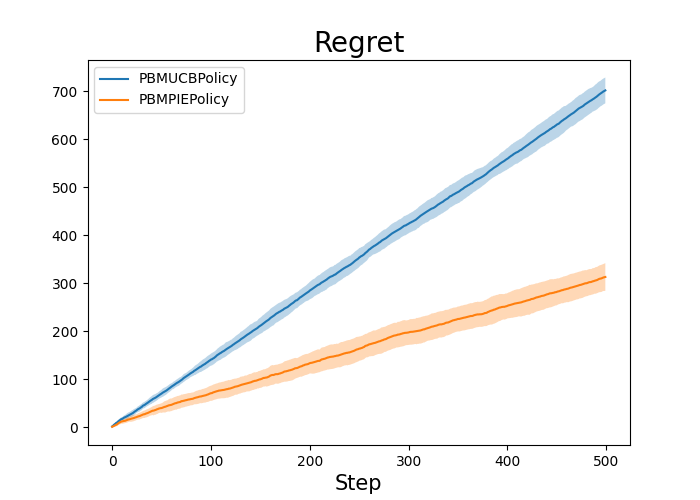
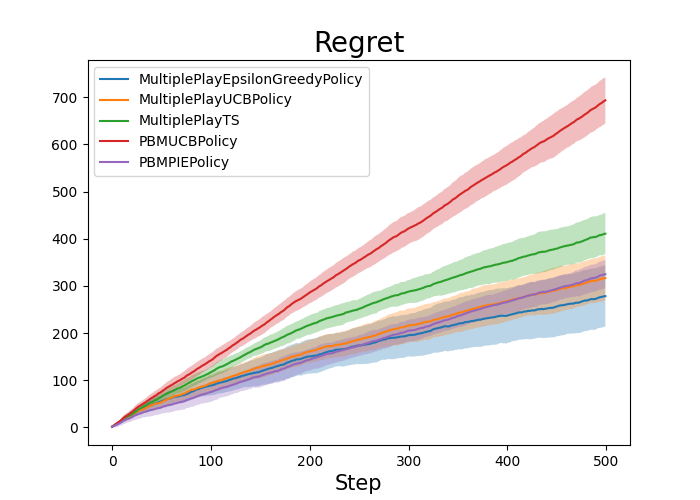
UCB TS epsilon-greedy実装

diff --git a/src/policy/multiple_play/contextfree.py b/src/policy/multiple_play/contextfree.py
@@ -19,6 +19,53 @@ class MultiplePlayRandomPolicy(AbstractMultiplePlayContextFreePolicy):
         return np.array(actions)
 
 
+class MultiplePlayEpsilonGreedyPolicy(AbstractMultiplePlayContextFreePolicy):
+    def __init__(self, n_actions: int, n_play: int, epsilon: float):
+        super().__init__(n_actions, n_play)
+        self.epsilon = epsilon
+
+    def select_action(self, n):
+        actions = np.argsort(-self.mu)[: self.n_play]
+        actions = np.tile(actions, (n, 1))
+        if np.random.rand() < self.epsilon:
+            actions = np.array(
+                [
+                    np.random.choice(self.n_actions, replace=False, size=self.n_play)
+                    for _ in range(n)
+                ]
+            )
+        return actions
+
+
+class MultiplePlayUCBPolicy(AbstractMultiplePlayContextFreePolicy):
+    def __init__(self, n_actions: int, n_play: int):
+        super().__init__(n_actions, n_play)
+
+    def select_action(self, n):
+        t = self.cnt.flatten().sum()  # これまで引いた回数
+        ucb_score = self.mu + np.sqrt(np.log(t) / (2 * self.cnt.sum(axis=1) + 1e-10))
+        actions = np.argsort(-ucb_score)[: self.n_play]  # スコアの高い腕を選択
+        actions = np.tile(actions, (n, 1))
+
+        return actions
+
+
+class MultiplePlayTS(AbstractMultiplePlayContextFreePolicy):
+    def __init__(self, n_actions: int, n_play: int):
+        super().__init__(n_actions, n_play)
+
+    def select_action(self, n):
+        cnt = self.cnt.sum(axis=1)  # 各腕のプレイ回数
+        success = self.reward.sum(axis=1)  # 各腕のクリック回数
+        fail = cnt - success  # 各腕のクリックされなかった回数
+        score = np.random.beta(
+            success + 1, fail + 1, size=(n, self.n_actions)
+        )  # Thompson Sampling
+        actions = np.argsort(-score)[:, : self.n_play]  # スコアの高い腕を選択
+
+        return actions
+
+
 class PBMUCBPolicy(AbstractMultiplePlayContextFreePolicy):
     def __init__(self, n_actions: int, n_play: int, examination: np.ndarray, delta: float):
         super().__init__(n_actions, n_play)

diff --git a/bin/run_pbm.py b/bin/run_pbm.py
@@ -9,6 +9,9 @@ from src.config import PBMConfig
 from src.evaluator import Evaluator
 from src.policy.multiple_play.contextfree import (
     MultiplePlayRandomPolicy,
+    MultiplePlayEpsilonGreedyPolicy,
+    MultiplePlayUCBPolicy,
+    MultiplePlayTS,
     PBMPIEPolicy,
     PBMUCBPolicy,
 )
@@ -22,6 +25,9 @@ def set_up(cfg: PBMConfig) -> Tuple[List[MUTIPLE_PLAY_POLICY_TYPE], PBMEnviromen
     set_seed(cfg.seed)
     policies: List[MUTIPLE_PLAY_POLICY_TYPE] = [
         # MultiplePlayRandomPolicy(cfg.n_actions, cfg.n_play),
+        MultiplePlayEpsilonGreedyPolicy(cfg.n_actions, cfg.n_play, epsilon=0.05),
+        MultiplePlayUCBPolicy(cfg.n_actions, cfg.n_play),
+        MultiplePlayTS(cfg.n_actions, cfg.n_play),
         PBMUCBPolicy(cfg.n_actions, cfg.n_play, cfg.examination, delta=0.01),
         PBMPIEPolicy(cfg.n_actions, cfg.n_play, cfg.examination, max_t=cfg.step * cfg.bs, eps=0.1),
     ]

diff --git a/README.md b/README.md
@@ -62,9 +62,12 @@ k: 腕の数
 
 #### Position Based Model(Contextfree)
 k: 腕の数
+L: プレイ回数 = 10
 
-- k=10
-![](./resources/pbm/n_actions=10.png)
+腕の数が多くなるほどPBMベースの方策が良い結果を出すが、Epsilon-Greedyが強くなる
+
+- k=15
+![](./resources/pbm/n_actions=15.png)
 
 - k=30
 ![](./resources/pbm/n_actions=30.png)
@@ -75,6 +78,14 @@ k: 腕の数
 - k=120
 ![](./resources/pbm/n_actions=120.png)
 
+- k=240
+![](./resources/pbm/n_actions=240.png)
+
+- k=480
+![](./resources/pbm/n_actions=480.png)
+
+- k=960
+![](./resources/pbm/n_actions=960.png)
 
 # References
 - https://github.com/st-tech/zr-obp
